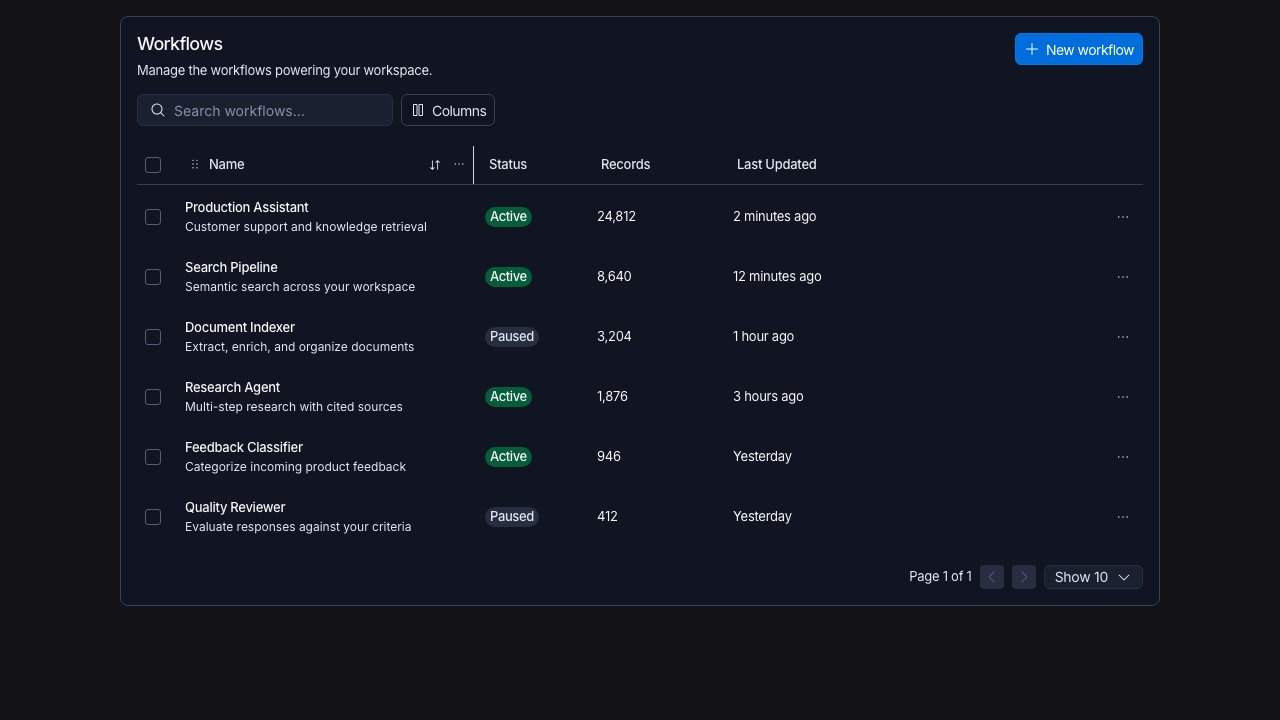
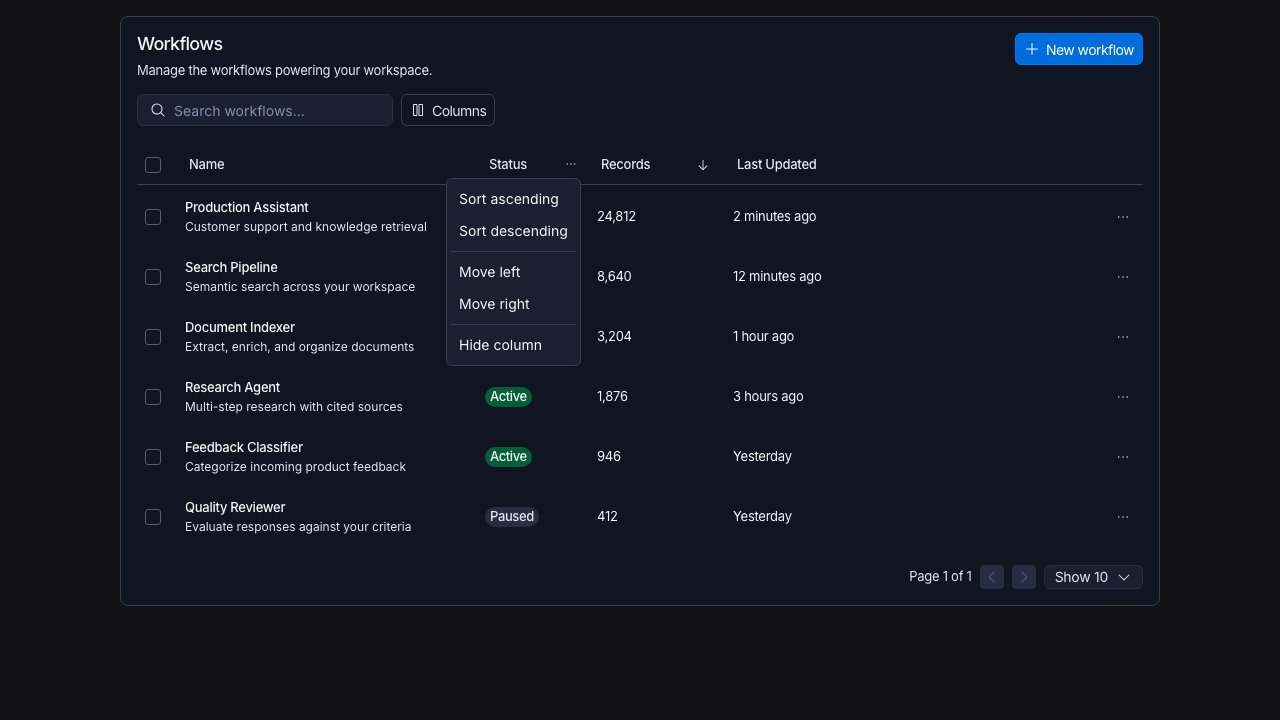
feat: move MacawTable sorting into the column menu
When column actions are enabled, sortable columns get Sort ascending, Sort
descending, and Clear sort menu items, and the header keeps a sort button only
for the active direction, matching DataGridV2. Menu groups are separated only
when more than one renders.

diff --git a/packages/components/src/components/MacawTable/MacawTableHeader.tsx b/packages/components/src/components/MacawTable/MacawTableHeader.tsx
@@ -1,4 +1,4 @@
-import { useRef, useState } from 'react';
+import { Fragment, useRef, useState } from 'react';
 
 import { ArrowDownIcon } from '@phosphor-icons/react/dist/ssr/ArrowDown';
 import { ArrowsDownUpIcon } from '@phosphor-icons/react/dist/ssr/ArrowsDownUp';
@@ -99,6 +99,73 @@ export function MacawTableHeader<TData>(
                 : sorted === 'desc'
                   ? ArrowDownIcon
                   : ArrowsDownUpIcon;
+            // With column actions, sorting lives in the menu and the header
+            // button only shows an active direction.
+            const sortInMenu =
+              !!props.enableColumnActions && column.getCanSort();
+            const menuGroups = [
+              (sortInMenu ||
+                (props.enableColumnActions && props.onFilterColumn)) && (
+                <Fragment key="sort">
+                  {sortInMenu && (
+                    <>
+                      <DropdownMenuItem
+                        onSelect={() => column.toggleSorting(false)}
+                      >
+                        Sort ascending
+                      </DropdownMenuItem>
+                      <DropdownMenuItem
+                        onSelect={() => column.toggleSorting(true)}
+                      >
+                        Sort descending
+                      </DropdownMenuItem>
+                      {sorted && (
+                        <DropdownMenuItem
+                          onSelect={() => column.clearSorting()}
+                        >
+                          Clear sort
+                        </DropdownMenuItem>
+                      )}
+                    </>
+                  )}
+                  {props.enableColumnActions && props.onFilterColumn && (
+                    <DropdownMenuItem
+                      onSelect={() => props.onFilterColumn?.(column.id)}
+                    >
+                      Filter {label}
+                    </DropdownMenuItem>
+                  )}
+                </Fragment>
+              ),
+              canMove && (
+                <Fragment key="move">
+                  <DropdownMenuItem
+                    disabled={moveIndex === 0}
+                    onSelect={() =>
+                      move(column.id, visibleMovable[moveIndex - 1].id)
+                    }
+                  >
+                    Move left
+                  </DropdownMenuItem>
+                  <DropdownMenuItem
+                    disabled={moveIndex === visibleMovable.length - 1}
+                    onSelect={() =>
+                      move(column.id, visibleMovable[moveIndex + 1].id)
+                    }
+                  >
+                    Move right
+                  </DropdownMenuItem>
+                </Fragment>
+              ),
+              props.enableColumnActions && column.getCanHide() && (
+                <DropdownMenuItem
+                  key="hide"
+                  onSelect={() => column.toggleVisibility(false)}
+                >
+                  Hide column
+                </DropdownMenuItem>
+              ),
+            ].filter(Boolean);
             return (
               <th
                 key={header.id}
@@ -207,106 +274,61 @@ export function MacawTableHeader<TData>(
                           header.getContext()
                         )}
                   </Text>
-                  {!header.isPlaceholder && column.getCanSort() && (
-                    <IconButton
-                      icon={sortIcon}
-                      iconWeight="regular"
-                      label={
-                        column.getNextSortingOrder()
-                          ? `Sort ${label} ${column.getNextSortingOrder() === 'asc' ? 'ascending' : 'descending'}`
-                          : `Remove sort for ${label}`
-                      }
-                      size="xs"
-                      variant="plain"
-                      color="secondary"
-                      // The active direction stays visible; the unsorted
-                      // affordance keeps its space so sorting never shifts the label.
-                      className={sorted ? undefined : REVEAL_ON_HEADER}
-                      onClick={column.getToggleSortingHandler()}
-                    />
-                  )}
+                  {!header.isPlaceholder &&
+                    column.getCanSort() &&
+                    (!sortInMenu || sorted) && (
+                      <IconButton
+                        icon={sortIcon}
+                        iconWeight="regular"
+                        label={
+                          column.getNextSortingOrder()
+                            ? `Sort ${label} ${column.getNextSortingOrder() === 'asc' ? 'ascending' : 'descending'}`
+                            : `Remove sort for ${label}`
+                        }
+                        size="xs"
+                        variant="plain"
+                        color="secondary"
+                        // The active direction stays visible; the unsorted
+                        // affordance keeps its space so sorting never shifts the label.
+                        className={sorted ? undefined : REVEAL_ON_HEADER}
+                        onClick={column.getToggleSortingHandler()}
+                      />
+                    )}
                   {!header.isPlaceholder &&
                     options?.renderHeaderActions?.(column, table)}
-                  {!header.isPlaceholder &&
-                    (props.enableColumnActions || canMove) &&
-                    (column.getCanHide() ||
-                      props.onFilterColumn ||
-                      canMove) && (
-                      <span
-                        className={cn(
-                          EXPAND_ON_HEADER,
-                          'has-[[data-state=open]]:w-5'
-                        )}
-                      >
-                        <DropdownMenu>
-                          <DropdownMenuTrigger asChild>
-                            <IconButton
-                              icon={DotsThreeIcon}
-                              iconWeight="regular"
-                              label={`Actions for ${label}`}
-                              size="xs"
-                              variant="plain"
-                              color="secondary"
-                              className={cn(
-                                REVEAL_ON_HEADER,
-                                'data-[state=open]:opacity-100'
-                              )}
-                            />
-                          </DropdownMenuTrigger>
-                          <DropdownMenuContent align="end">
-                            {props.enableColumnActions &&
-                              props.onFilterColumn && (
-                                <DropdownMenuItem
-                                  onSelect={() =>
-                                    props.onFilterColumn?.(column.id)
-                                  }
-                                >
-                                  Filter {label}
-                                </DropdownMenuItem>
-                              )}
-                            {canMove && (
-                              <>
-                                <DropdownMenuItem
-                                  disabled={moveIndex === 0}
-                                  onSelect={() =>
-                                    move(
-                                      column.id,
-                                      visibleMovable[moveIndex - 1].id
-                                    )
-                                  }
-                                >
-                                  Move left
-                                </DropdownMenuItem>
-                                <DropdownMenuItem
-                                  disabled={
-                                    moveIndex === visibleMovable.length - 1
-                                  }
-                                  onSelect={() =>
-                                    move(
-                                      column.id,
-                                      visibleMovable[moveIndex + 1].id
-                                    )
-                                  }
-                                >
-                                  Move right
-                                </DropdownMenuItem>
-                                <DropdownMenuSeparator />
-                              </>
+                  {!header.isPlaceholder && menuGroups.length > 0 && (
+                    <span
+                      className={cn(
+                        EXPAND_ON_HEADER,
+                        'has-[[data-state=open]]:w-5'
+                      )}
+                    >
+                      <DropdownMenu>
+                        <DropdownMenuTrigger asChild>
+                          <IconButton
+                            icon={DotsThreeIcon}
+                            iconWeight="regular"
+                            label={`Actions for ${label}`}
+                            size="xs"
+                            variant="plain"
+                            color="secondary"
+                            className={cn(
+                              REVEAL_ON_HEADER,
+                              'data-[state=open]:opacity-100'
                             )}
-                            {props.enableColumnActions &&
-                              column.getCanHide() && (
-                                <DropdownMenuItem
-                                  onSelect={() =>
-                                    column.toggleVisibility(false)
-                                  }
-                                >
-                                  Hide column
-                                </DropdownMenuItem>
-                              )}
-                          </DropdownMenuContent>
-                        </DropdownMenu>
-                      </span>
-                    )}
+                          />
+                        </DropdownMenuTrigger>
+                        <DropdownMenuContent align="end">
+                          {menuGroups.map((group, index) => (
+                            <Fragment key={index}>
+                              {index > 0 && <DropdownMenuSeparator />}
+                              {group}
+                            </Fragment>
+                          ))}
+                        </DropdownMenuContent>
+                      </DropdownMenu>
+                    </span>
+                  )}
                   {!header.isPlaceholder &&
                     column.getCanResize() &&
                     header.subHeaders.length === 0 && (

diff --git a/packages/components/src/components/MacawTable/__tests__/MacawTable.test.tsx b/packages/components/src/components/MacawTable/__tests__/MacawTable.test.tsx
@@ -287,8 +287,23 @@ describe('MacawTable', () => {
     });
   });
 
-  it('hides a column from its menu and restores it from the visibility control', async () => {
+  it('sorts and hides a column from its menu and restores it from the visibility control', async () => {
     const { user } = render(<Harness enableColumnActions />);
+    expect(
+      screen.queryByRole('button', { name: /^Sort Count/ })
+    ).not.toBeInTheDocument();
+    await user.click(screen.getByRole('button', { name: 'Actions for Count' }));
+    await user.click(screen.getByRole('menuitem', { name: 'Sort descending' }));
+    expect(screen.getByRole('columnheader', { name: /Count/ })).toHaveAttribute(
+      'aria-sort',
+      'descending'
+    );
+    expect(bodyRows()[0]).toHaveTextContent('Delta');
+    await user.click(screen.getByRole('button', { name: 'Actions for Count' }));
+    await user.click(screen.getByRole('menuitem', { name: 'Clear sort' }));
+    expect(
+      screen.getByRole('columnheader', { name: /Count/ })
+    ).not.toHaveAttribute('aria-sort');
     await user.click(screen.getByRole('button', { name: 'Actions for Count' }));
     await user.click(screen.getByRole('menuitem', { name: 'Hide column' }));
     expect(headerNames()).not.toContain('count');

diff --git a/packages/components/docs/MACAW_TABLE.md b/packages/components/docs/MACAW_TABLE.md
@@ -84,10 +84,11 @@ confirmation, and operations stay in the application.
   `enableReordering`, and `renderHeaderActions(column, table)`. This avoids globally
   augmenting TanStack metadata or colliding with consumer fields. Set `fill` on a
   non-resizable, unpinned column to absorb spare space; the remaining columns keep their widths.
-- `enableColumnActions` adds hide/filter and move menu items. `onFilterColumn(id)`
-  opens the application's filter UI. Sorting remains a separate header button.
-  Sort, move, and menu controls appear when the header is hovered or holds focus,
-  and always on touch devices; an active sort direction stays visible.
+- `enableColumnActions` adds a column menu with sort, filter, move, and hide items.
+  `onFilterColumn(id)` opens the application's filter UI. With the menu enabled,
+  the header shows a sort button only for the active direction; without it, each
+  sortable header has its own sort button. Move, menu, and unsorted sort controls
+  appear when the header is hovered or holds focus, and always on touch devices.
 - `enableColumnReordering` adds drag handles, Left/Right keyboard movement, and
   move menu items usable on touch devices.
   Hidden and fixed columns retain their order slots. Selection/action IDs,
